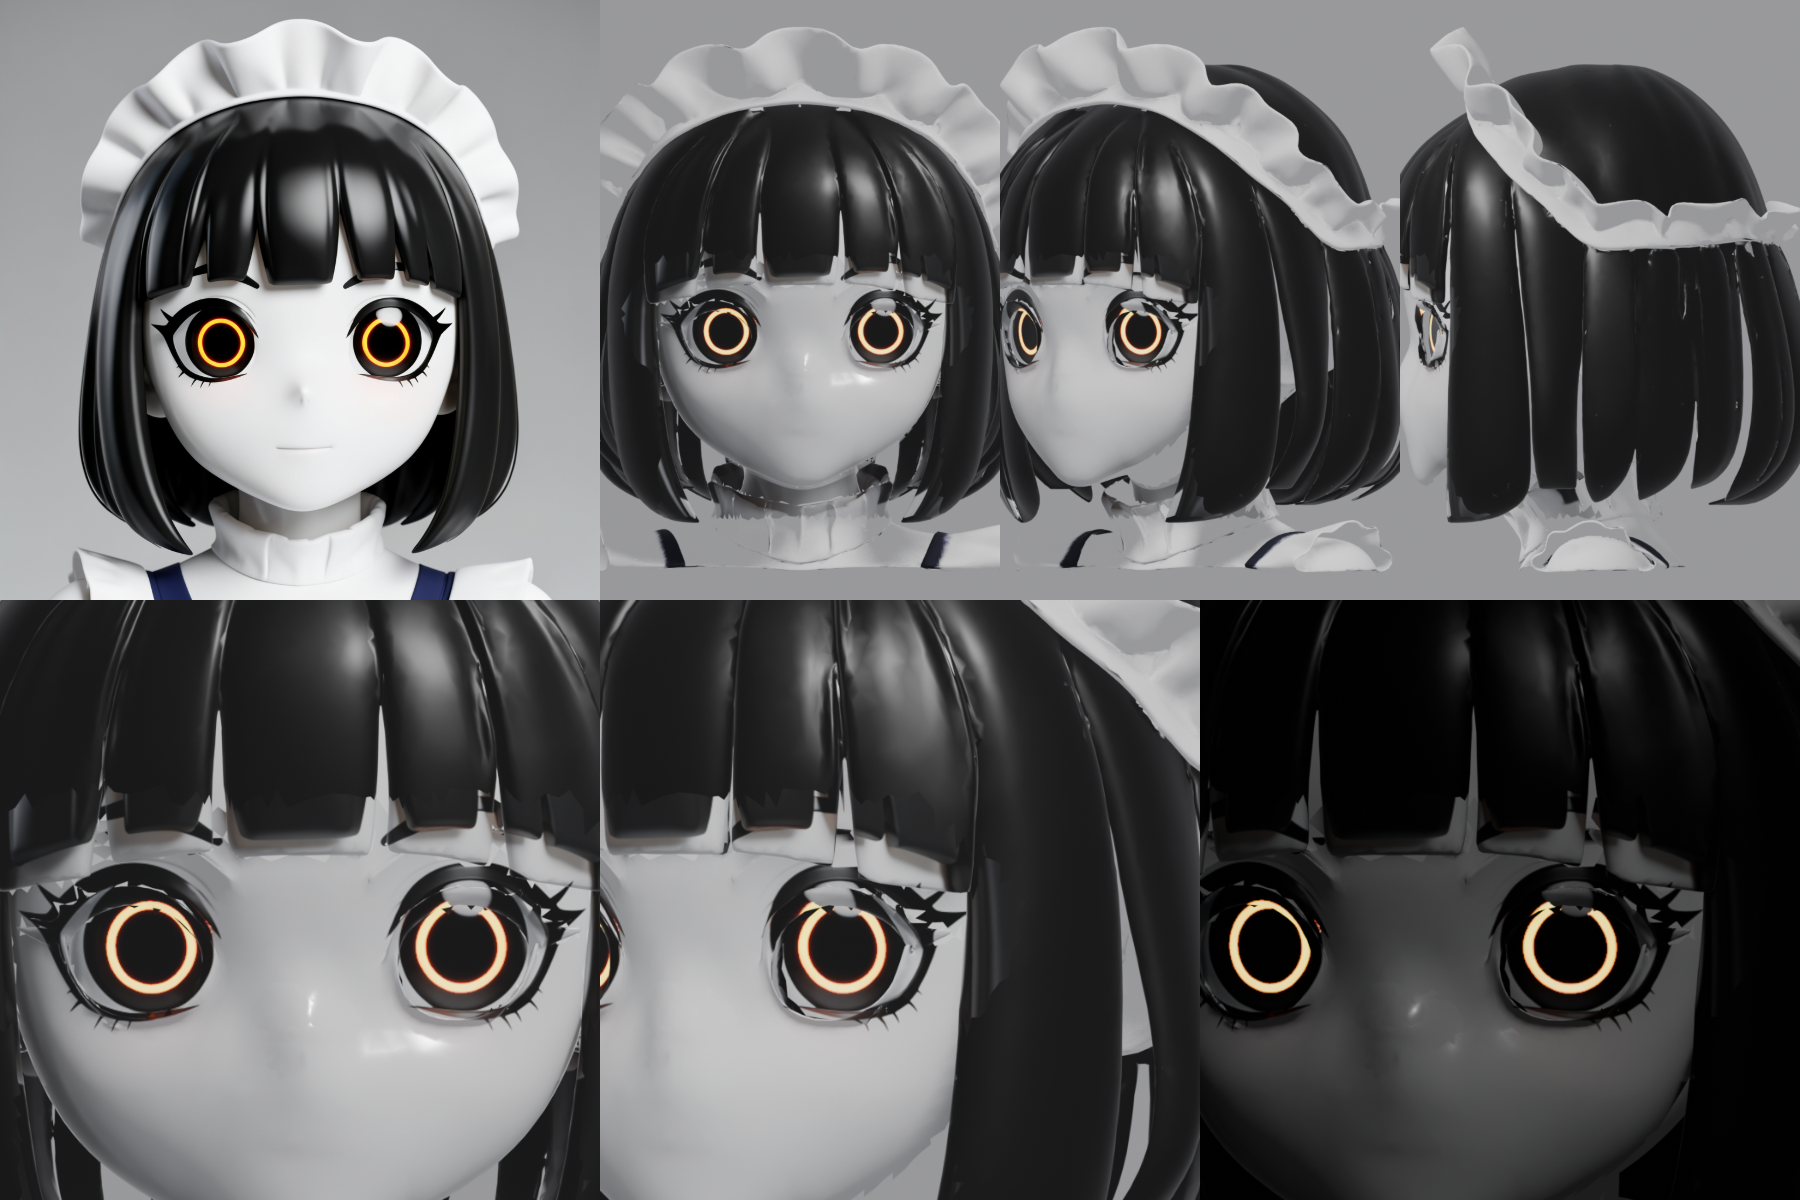
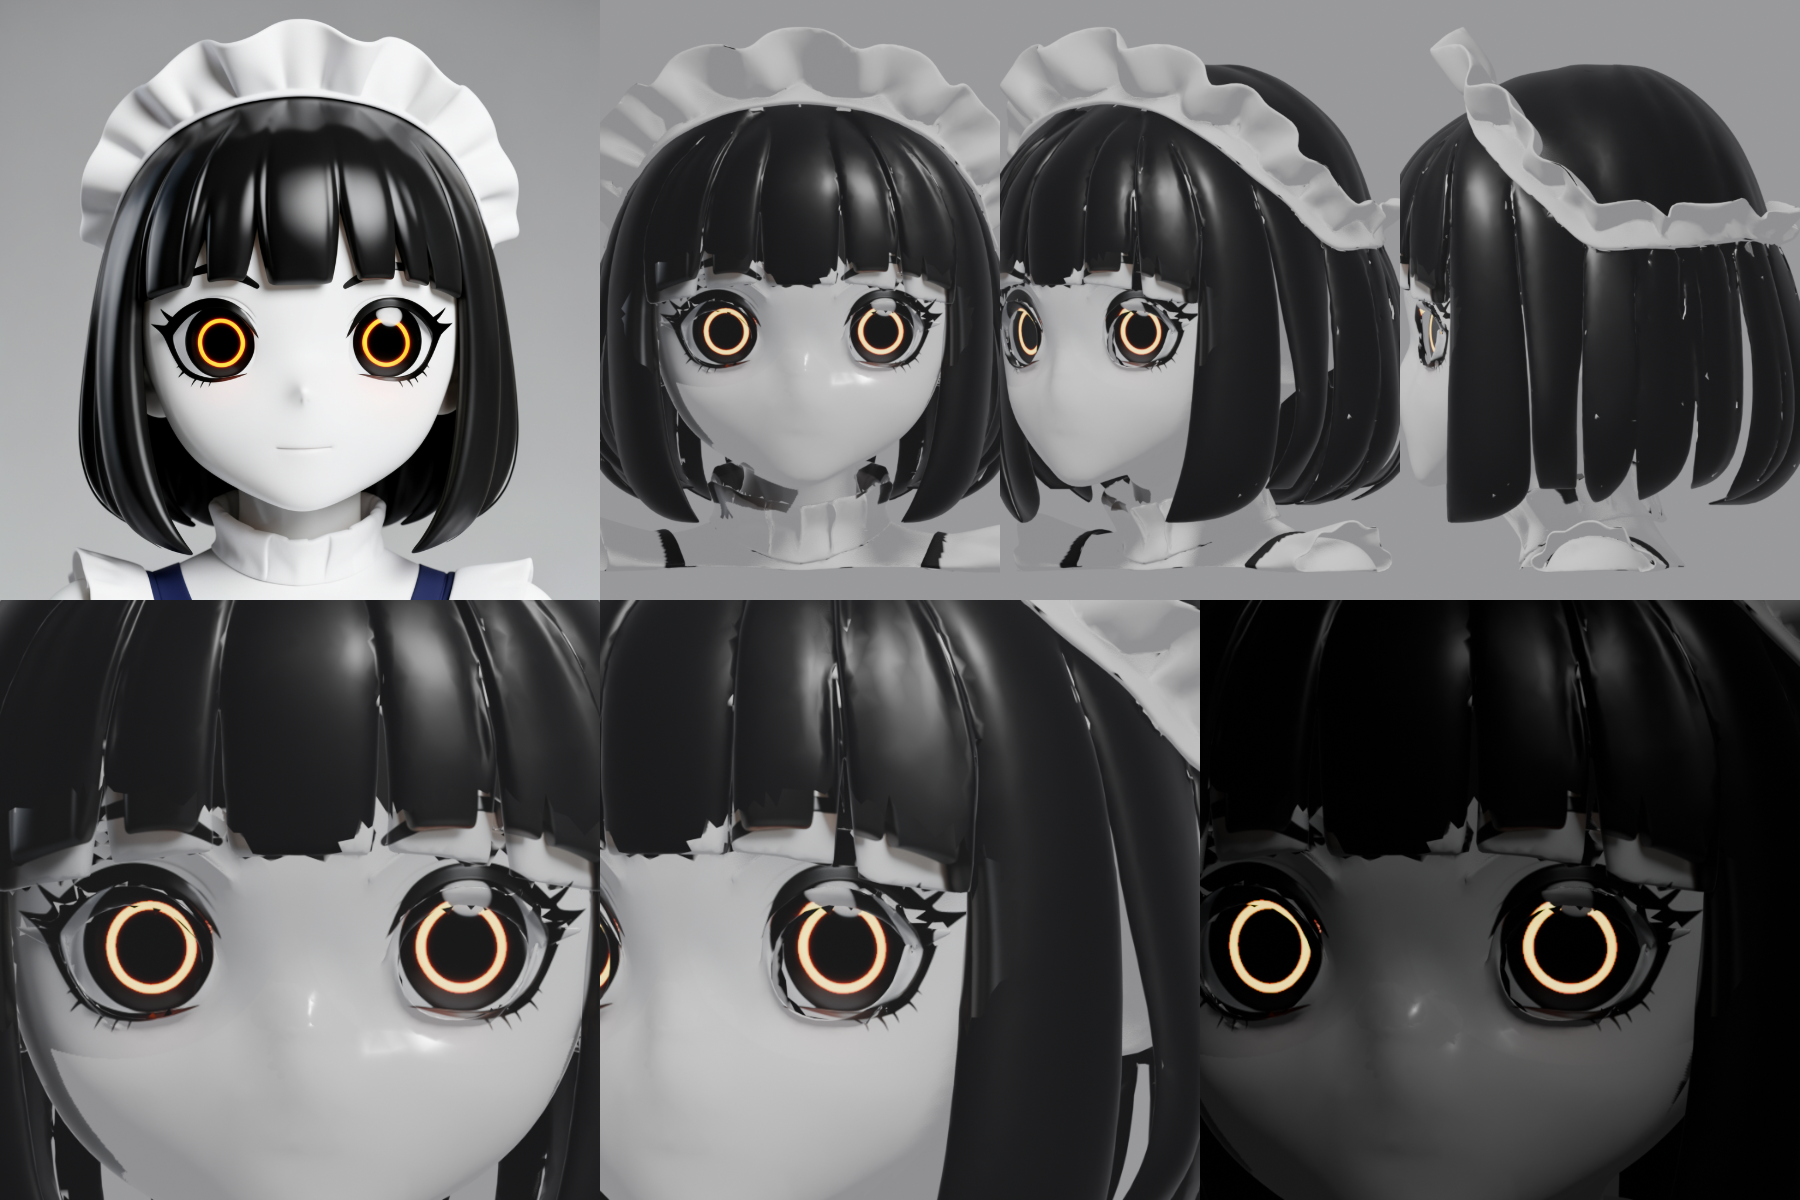
robot: s1597 head clean colour: TRELLIS texture snapped to glossy black and clean white (speckles voted out), concept skin shading flattened to porcelain, no projection onto hair, bang tips painted black

diff --git a/prototypes/robot/hf/project_face.py b/prototypes/robot/hf/project_face.py
@@ -111,6 +111,18 @@ pu_, pv_ = u / W, v / H
 zone_p |= (np.abs(pu_ - 0.485) < 0.05) & (pv_ > 0.58) & (pv_ < 0.72)
 for ex_, ey_ in EYES: zone_p |= np.hypot((pu_ - ex_) / 0.15, (pv_ - ey_) / 0.12) < 1
 cand |= zone_p & (nrm[:, 1] < 0.35) & (cen[:, 1] < np.percentile(co[:, 1], 30))
+# never project onto hair: TRELLIS's own colour of each polygon (dark = hair) unless it's in an eye
+ntA = me.materials[0].node_tree
+baseA = [n_ for n_ in ntA.nodes if n_.type == 'TEX_IMAGE' and 'base' in n_.image.name.lower()][0].image
+AW, AH = baseA.size; bpA = np.array(baseA.pixels[:]).reshape(AH, AW, 4)
+uvA = np.zeros(len(me.loops) * 2); me.uv_layers.active.data.foreach_get('uv', uvA); uvA = uvA.reshape(-1, 2)
+lcol = bpA[(np.clip(uvA[:, 1], 0, 1) * (AH - 1)).astype(int), (np.clip(uvA[:, 0], 0, 1) * (AW - 1)).astype(int), :3].mean(1)
+lstart = np.zeros(len(me.polygons), int); me.polygons.foreach_get('loop_start', lstart)
+ltot = np.zeros(len(me.polygons), int); me.polygons.foreach_get('loop_total', ltot)
+plum = np.add.reduceat(lcol, lstart) / ltot
+in_eye_p = np.zeros(len(cen), bool)
+for ex_, ey_ in EYES: in_eye_p |= np.hypot((pu_ - ex_) / 0.15, (pv_ - ey_) / 0.12) < 1
+cand &= (plum > 0.4) | in_eye_p
 tree = BVHTree.FromPolygons([tuple(c) for c in co], [p.vertices[:] for p in me.polygons])
 ymin = co[:, 1].min() - 1
 sel = []
@@ -123,6 +135,15 @@ for i in np.where(cand)[0]:
 print('projected faces', len(sel), 'of', int(cand.sum()))
 
 # second material: the concept image, plus its orange glow as emission
+# clean colour, face: flatten the concept's baked skin shading to one porcelain white (3D lighting does the shading);
+# the eyes (inside their ellipses) and anything coloured stay as they are
+pyy, pxx = np.mgrid[0:H, 0:W] / np.array([H, W])[:, None, None]
+eyez = np.zeros((H, W), bool)
+for ex_, ey_ in EYES: eyez |= ((pxx - ex_) / 0.15) ** 2 + ((pyy - ey_) / 0.12) ** 2 < 1
+lum_ = px[..., :3].mean(-1); sat_ = px[..., :3].max(-1) - px[..., :3].min(-1)
+skin_ = (lum_ > 0.55) & (sat_ < 0.15) & ~eyez
+px[skin_, :3] = [0.93, 0.925, 0.92]
+img.pixels = px[::-1].ravel().tolist()
 emis = np.zeros_like(px); emis[..., 3] = 1
 r, g, b = px[..., 0], px[..., 1], px[..., 2]
 glow = (r > 0.55) & (r - b > 0.35) & (g > 0.18)                # the orange rings and their halo
@@ -141,4 +162,35 @@ for i in sel:
     for li in p.loop_indices:
         c = me.vertices[me.loops[li].vertex_index].co; uu, vv = to_img(c.x, c.z)
         uvl[li].uv = (uu / (W - 1), 1 - vv / (H - 1))
+# clean colour, everything else: snap TRELLIS's texture to glossy black (hair) or clean white (frill, collar), with a
+# small majority filter so speckles and grey seams go; strongly coloured texels (the apron straps) are left alone
+nt0 = me.materials[0].node_tree
+base0 = [n_ for n_ in nt0.nodes if n_.type == 'TEX_IMAGE' and 'base' in n_.image.name.lower()][0].image
+BW, BH = base0.size; bp0 = np.array(base0.pixels[:]).reshape(BH, BW, 4)
+l0 = bp0[..., :3].mean(-1); s0 = bp0[..., :3].max(-1) - bp0[..., :3].min(-1)
+white = blur((l0 > 0.42).astype(float)[..., None], 3)[..., 0] > 0.5
+keep = s0 > 0.2
+bp0[white & ~keep, :3] = [0.92, 0.915, 0.91]; bp0[~white & ~keep, :3] = [0.025, 0.025, 0.03]
+# the bang tips: in the band just above the eyes, anything that is still TRELLIS texture (not the projected face) is
+# hair, so paint those triangles black (they carried slivers of skin colour)
+uvd0 = me.uv_layers.active.data
+band = [p_ for p_ in me.polygons if p_.material_index == 0 and 0.2 < pu_[p_.index] < 0.8 and 0.36 < pv_[p_.index] < 0.52
+        and cen[p_.index, 1] < np.percentile(co[:, 1], 30)]
+bm_ = np.zeros((BH, BW), bool)
+for p_ in band:
+    uv_ = np.array([uvd0[li].uv[:] for li in p_.loop_indices]) * [BW - 1, BH - 1]
+    for t in range(1, len(uv_) - 1):
+        A_, B_, C_ = uv_[0], uv_[t], uv_[t + 1]
+        x0_, x1_ = int(max(min(A_[0], B_[0], C_[0]) - 1, 0)), int(min(max(A_[0], B_[0], C_[0]) + 2, BW))
+        y0_, y1_ = int(max(min(A_[1], B_[1], C_[1]) - 1, 0)), int(min(max(A_[1], B_[1], C_[1]) + 2, BH))
+        if x1_ <= x0_ or y1_ <= y0_: continue
+        gx, gy = np.meshgrid(np.arange(x0_, x1_), np.arange(y0_, y1_))
+        d_ = (B_[1] - C_[1]) * (A_[0] - C_[0]) + (C_[0] - B_[0]) * (A_[1] - C_[1])
+        if abs(d_) < 1e-9: continue
+        l1 = ((B_[1] - C_[1]) * (gx - C_[0]) + (C_[0] - B_[0]) * (gy - C_[1])) / d_
+        l2 = ((C_[1] - A_[1]) * (gx - C_[0]) + (A_[0] - C_[0]) * (gy - C_[1])) / d_
+        bm_[y0_:y1_, x0_:x1_] |= (l1 >= -0.1) & (l2 >= -0.1) & (1 - l1 - l2 >= -0.1)
+bp0[bm_, :3] = [0.025, 0.025, 0.03]
+print('bang tip polys', len(band))
+base0.pixels = bp0.ravel().tolist(); base0.pack()
 bpy.ops.export_scene.gltf(filepath=out, export_format='GLB'); print('saved', out)
